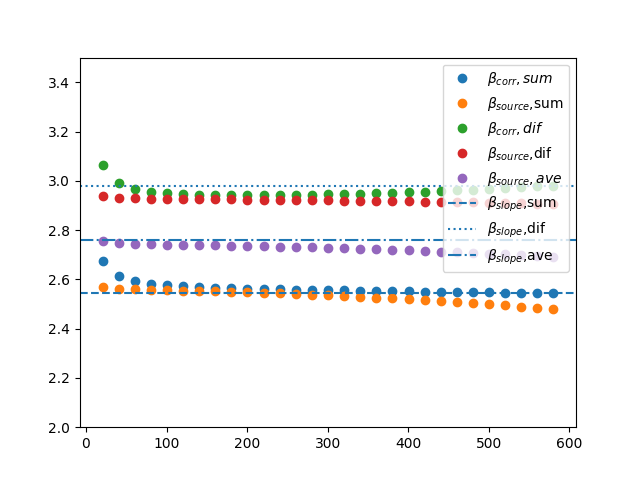
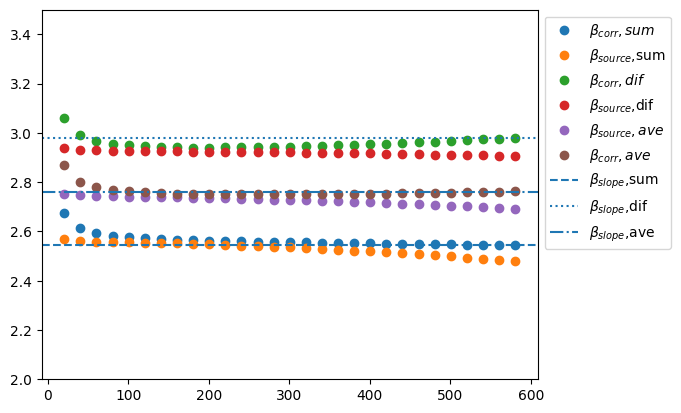
写真集

diff --git a/common_files/multi_detec_mix.py b/common_files/multi_detec_mix.py
@@ -95,6 +95,8 @@ beta_sums_at_detecs_corrected = np.zeros(detecs_num)
 beta_difs_at_detecs = np.zeros(detecs_num)
 beta_difs_at_detecs_corrected = np.zeros(detecs_num)
 beta_aves_at_detecs= np.zeros(detecs_num)
+beta_aves_at_detecs_corrected= np.zeros(detecs_num)
+
 #betaSHGArrayCorrected = np.zeros((len(freqs_f_1), len(detecs)))
 
 #wavelength_f1 = np.zeros(len(freqs_f_1))
@@ -269,6 +271,7 @@ for i in range(detecs_num):
 
 print("Drawing the graphs at the right end detector...")
 beta_aves_at_detecs=(beta_sums_at_detecs+ beta_difs_at_detecs)/2
+beta_aves_at_detecs_corrected=(beta_sums_at_detecs_corrected+ beta_difs_at_detecs_corrected)/2
 
 fig, ax = plt.subplots()
 ax.set_xlabel(r"propagation distance $x (\mathrm{\AA)}$ ")
@@ -396,6 +399,8 @@ ax.plot(x_detecs_array[0, :], beta_difs_at_detecs, marker="o",
         linestyle="none", label=r"$\beta_{source}$,dif")
 ax.plot(x_detecs_array[0, :], beta_aves_at_detecs,
         marker="o", linestyle="none", label=r"$\beta _{source},ave$")
+ax.plot(x_detecs_array[0, :], beta_aves_at_detecs_corrected,
+        marker="o", linestyle="none", label=r"$\beta _{corr},ave$")      
 ax.axhline(y=beta_slope_sum, linestyle="--",
            label=r"$\beta _{slope}$,sum")
 ax.axhline(y=beta_slope_dif, linestyle=":",
@@ -404,8 +409,8 @@ ax.axhline(y=beta_slope_ave, linestyle="dashdot",
             label=r"$\beta _{slope}$,ave")
 #ax.set_xlim([400,699])
 ax.set_ylim([2,3.5])
-ax.legend()
-plt.savefig("betas_vs_x.png")
+ax.legend(loc="upper left", bbox_to_anchor=(1,1))
+plt.savefig("betas_vs_x.png", bbox_inches="tight")
 
 
 # %%
